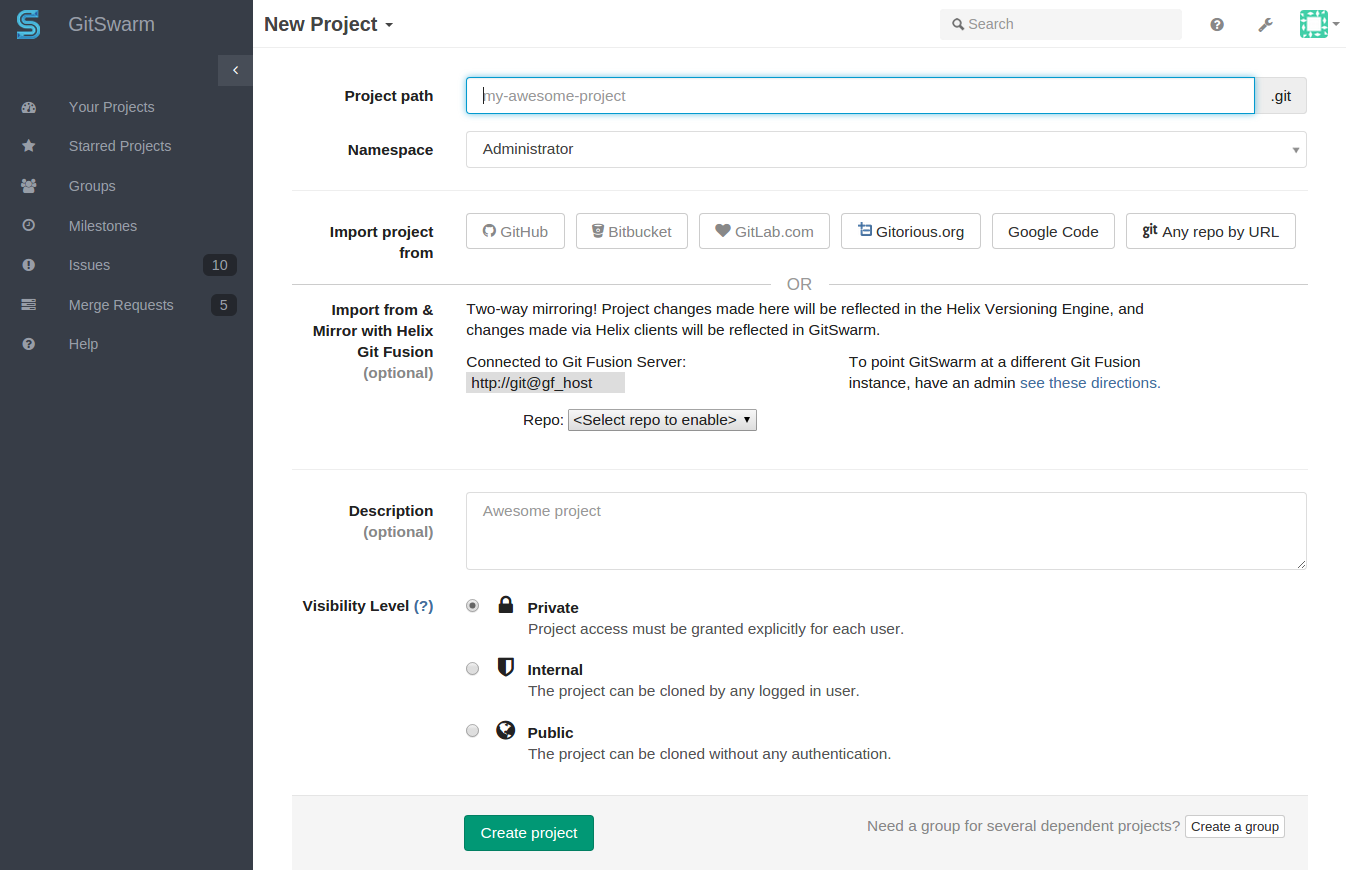
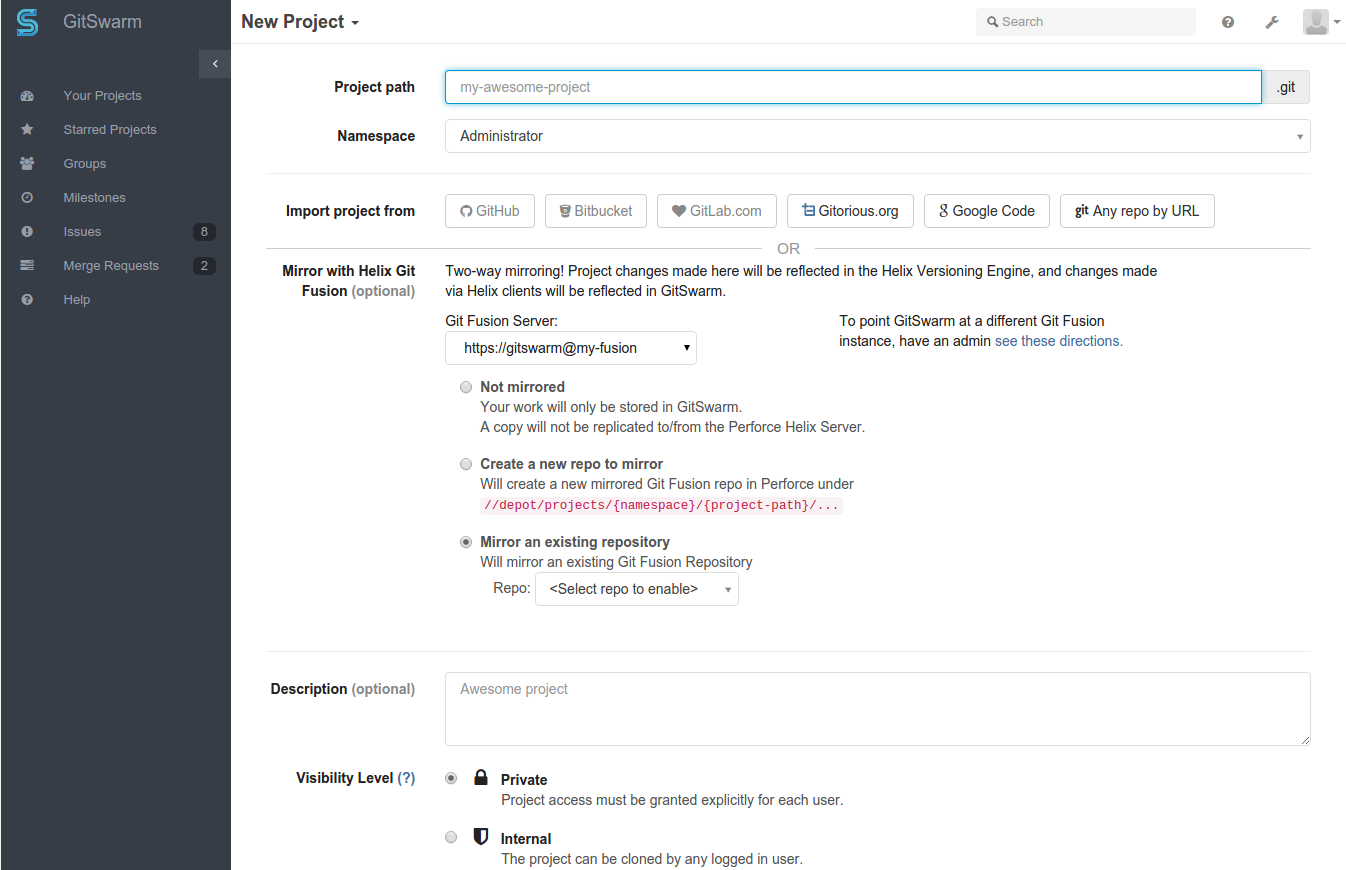
Update the git-fusion-importer page images to the new UI

diff --git a/perforce_swarm/doc-ce/workflow/importing/import_from_gitfusion.md b/perforce_swarm/doc-ce/workflow/importing/import_from_gitfusion.md
@@ -157,8 +157,11 @@ ssh git@gf_host
 
     ![New project page](gitfusion_importer/new_project_page.png)
 
-1.  Click the "Repo" drop-down menu and select an available
-    Git Fusion repository to import.
+1.  Click the "Git Fusion Server" drop-down menu to select an available
+    Git Fusion Server to import from.
+
+1.  Click the "Repo" drop-down menu under the "Mirror an exising repository"
+    option and select an available Git Fusion repository to import.
 
     ![Select repository to import](gitfusion_importer/choose_repo.png)
 
